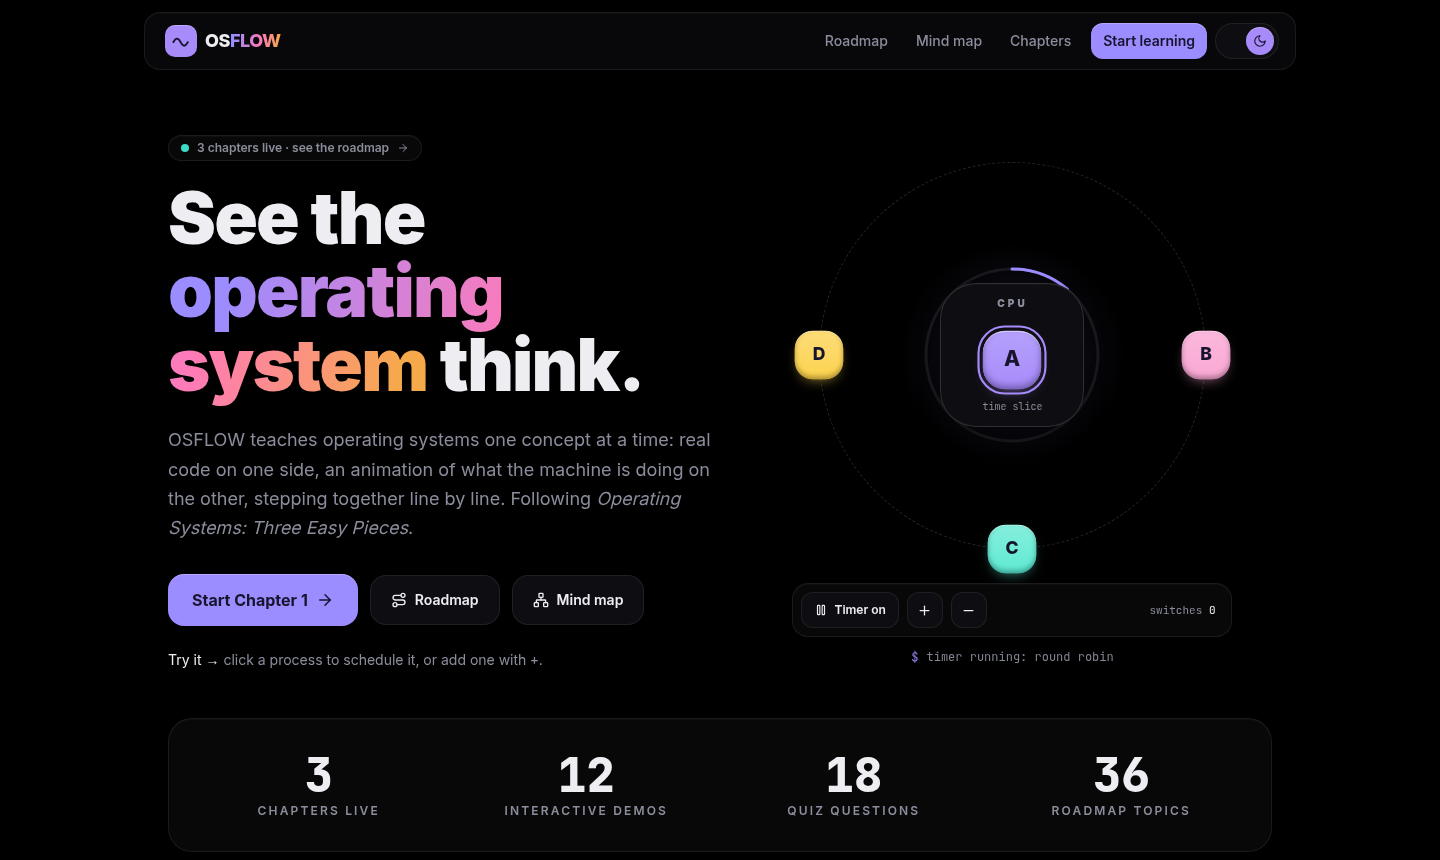
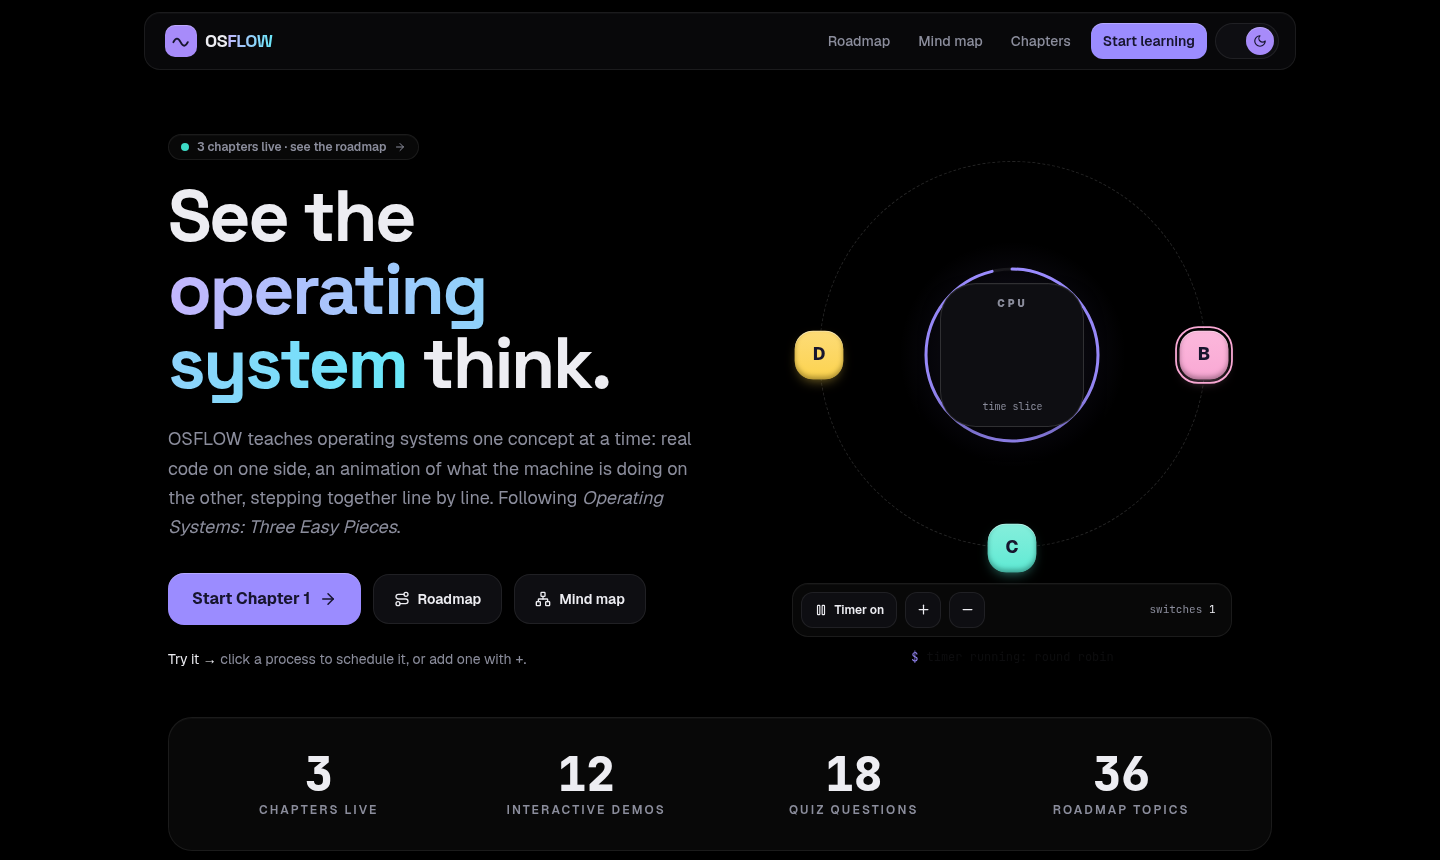
Typography and color refresh: Space Grotesk headings, Geist body, violet-to-cyan title gradient
- Headings and wordmark use Space Grotesk; body text uses Geist
- Calmer violet-to-cyan gradient for highlighted title words (deeper shades in light mode)
- OSFLOW wordmark: OS in ink, FLOW in the gradient
- Eyebrow labels use an accent color for clearer hierarchy
- README screenshot and GIFs re-recorded

diff --git a/app/page.tsx b/app/page.tsx
@@ -35,7 +35,7 @@ export default function Home() {
             </Link>
           </Reveal>
           <Reveal delay={0.05}>
-            <h1 className="mt-5 text-5xl font-black leading-[1.02] tracking-tight text-ink sm:text-7xl">
+            <h1 className="mt-5 text-5xl font-bold leading-[1.02] tracking-tight text-ink sm:text-7xl">
               See the <span className="text-gradient">operating system</span> think.
             </h1>
           </Reveal>
@@ -82,10 +82,10 @@ export default function Home() {
       {/* Three easy pieces */}
       <section aria-labelledby="pieces" className="py-16">
         <Reveal>
-          <p id="pieces" className="text-center text-sm font-bold uppercase tracking-[0.25em] text-muted">
+          <p id="pieces" className="text-center text-sm font-bold uppercase tracking-[0.25em] text-[var(--kicker)]">
             Three easy pieces
           </p>
-          <h2 className="mx-auto mt-3 max-w-2xl text-center text-3xl font-extrabold tracking-tight text-ink sm:text-4xl">Everything an OS does fits into three ideas</h2>
+          <h2 className="mx-auto mt-3 max-w-2xl text-center text-3xl font-bold tracking-tight text-ink sm:text-4xl">Everything an OS does fits into three ideas</h2>
         </Reveal>
         <Reveal delay={0.05}>
           <div className="mt-8">
@@ -97,7 +97,7 @@ export default function Home() {
       {/* How it works */}
       <section aria-labelledby="how" className="py-10">
         <Reveal>
-          <h2 id="how" className="text-3xl font-extrabold tracking-tight text-ink sm:text-4xl">
+          <h2 id="how" className="text-3xl font-bold tracking-tight text-ink sm:text-4xl">
             How every lesson works
           </h2>
         </Reveal>
@@ -122,7 +122,7 @@ export default function Home() {
       {/* Explore: roadmap + mind map */}
       <section aria-labelledby="explore" className="py-14">
         <Reveal>
-          <h2 id="explore" className="text-3xl font-extrabold tracking-tight text-ink sm:text-4xl">
+          <h2 id="explore" className="text-3xl font-bold tracking-tight text-ink sm:text-4xl">
             See the whole subject
           </h2>
           <p className="mt-2 max-w-2xl text-muted">Two maps of the same territory: one tells you what to learn next, the other shows how everything connects.</p>
@@ -134,7 +134,7 @@ export default function Home() {
                 <RoadmapPreview />
                 <div className="mt-5 flex items-center justify-between">
                   <div>
-                    <h3 className="text-xl font-extrabold text-ink">Learning roadmap</h3>
+                    <h3 className="text-xl font-bold text-ink">Learning roadmap</h3>
                     <p className="text-sm text-muted">
                       {ALL_TOPICS.length} topics in {STAGES.length} stages, in the order to learn them.
                     </p>
@@ -150,7 +150,7 @@ export default function Home() {
                 <MindmapPreview />
                 <div className="mt-5 flex items-center justify-between">
                   <div>
-                    <h3 className="text-xl font-extrabold text-ink">Concept mind map</h3>
+                    <h3 className="text-xl font-bold text-ink">Concept mind map</h3>
                     <p className="text-sm text-muted">{concepts} concepts around six big ideas, each linked to its lesson.</p>
                   </div>
                   <ArrowRight className="shrink-0 text-muted" />
@@ -164,7 +164,7 @@ export default function Home() {
       {/* Learning path */}
       <section id="path" aria-labelledby="path-h" className="scroll-mt-24 py-14">
         <Reveal>
-          <h2 id="path-h" className="text-3xl font-extrabold tracking-tight text-ink sm:text-4xl">
+          <h2 id="path-h" className="text-3xl font-bold tracking-tight text-ink sm:text-4xl">
             The learning path
           </h2>
           <p className="mt-2 max-w-2xl text-muted">
@@ -181,7 +181,7 @@ export default function Home() {
               <Reveal>
                 <div className="mb-4 flex items-center gap-3">
                   <span className="h-3 w-3 rounded-full" style={{ background: part.color }} aria-hidden />
-                  <h3 className="text-xl font-extrabold text-ink">{part.title}</h3>
+                  <h3 className="text-xl font-bold text-ink">{part.title}</h3>
                   <span className="hidden text-sm text-muted sm:inline">· {part.blurb}</span>
                 </div>
               </Reveal>

diff --git a/app/layout.tsx b/app/layout.tsx
@@ -1,10 +1,11 @@
 import type { Metadata, Viewport } from "next";
-import { Inter, JetBrains_Mono } from "next/font/google";
+import { Geist, JetBrains_Mono, Space_Grotesk } from "next/font/google";
 import "./globals.css";
 import { Nav } from "@/components/ui/Nav";
 import { Providers } from "@/components/ui/Providers";
 
-const inter = Inter({ subsets: ["latin"], variable: "--font-inter", display: "swap" });
+const sans = Geist({ subsets: ["latin"], variable: "--font-geist", display: "swap" });
+const display = Space_Grotesk({ subsets: ["latin"], variable: "--font-grotesk", weight: ["500", "600", "700"], display: "swap" });
 const mono = JetBrains_Mono({ subsets: ["latin"], variable: "--font-jetbrains", display: "swap" });
 
 export const metadata: Metadata = {
@@ -25,7 +26,7 @@ const themeScript = `try{var t=localStorage.getItem('osflow-theme');document.doc
 
 export default function RootLayout({ children }: { children: React.ReactNode }) {
   return (
-    <html lang="en" className={`dark ${inter.variable} ${mono.variable}`} suppressHydrationWarning>
+    <html lang="en" className={`dark ${sans.variable} ${display.variable} ${mono.variable}`} suppressHydrationWarning>
       <head>
         <script dangerouslySetInnerHTML={{ __html: themeScript }} />
       </head>
@@ -44,7 +45,7 @@ export default function RootLayout({ children }: { children: React.ReactNode }) 
           <footer className="relative mx-auto mt-24 max-w-6xl px-4 pb-12 text-sm text-muted sm:px-6">
             <div className="glass flex flex-col gap-2 rounded-3xl px-6 py-5 sm:flex-row sm:items-center sm:justify-between">
               <p>
-                <span className="font-semibold text-ink">OSFLOW</span> · learn operating systems by watching them work.
+                <span className="font-display font-bold tracking-tight text-ink">OS<span className="text-gradient">FLOW</span></span> · learn operating systems by watching them work.
               </p>
               <p>
                 Chapter order and example programs follow{" "}

diff --git a/app/roadmap/page.tsx b/app/roadmap/page.tsx
@@ -17,8 +17,8 @@ export default function RoadmapPage() {
     <div className="mx-auto max-w-6xl px-4 sm:px-6">
       <header className="pb-4 pt-12 sm:pt-16">
         <Reveal>
-          <p className="font-mono text-xs font-bold uppercase tracking-[0.25em] text-muted">Learning roadmap</p>
-          <h1 className="mt-3 max-w-3xl text-4xl font-black leading-[1.05] tracking-tight text-ink sm:text-6xl">
+          <p className="font-mono text-xs font-bold uppercase tracking-[0.25em] text-[var(--kicker)]">Learning roadmap</p>
+          <h1 className="mt-3 max-w-3xl text-4xl font-bold leading-[1.05] tracking-tight text-ink sm:text-6xl">
             The road to <span className="text-gradient">understanding an OS</span>
           </h1>
           <p className="mt-4 max-w-2xl text-lg leading-relaxed text-muted">
@@ -47,7 +47,7 @@ export default function RoadmapPage() {
       {/* Explanation of the whole map */}
       <section aria-labelledby="reading" className="mt-16">
         <Reveal>
-          <h2 id="reading" className="text-3xl font-extrabold tracking-tight text-ink sm:text-4xl">
+          <h2 id="reading" className="text-3xl font-bold tracking-tight text-ink sm:text-4xl">
             Reading the map
           </h2>
           <div className="prose-os mt-4">
@@ -72,7 +72,7 @@ export default function RoadmapPage() {
                   <span className="tint grid h-10 w-10 place-items-center rounded-xl font-mono text-sm font-black" style={{ ["--c" as string]: s.color }}>
                     {i + 1}
                   </span>
-                  <h3 className="text-xl font-extrabold text-ink">{s.title}</h3>
+                  <h3 className="text-xl font-bold text-ink">{s.title}</h3>
                 </div>
                 <div className="mt-3 space-y-3 text-[15px] leading-relaxed text-muted">
                   {s.explain.map((p, k) => (

diff --git a/app/globals.css b/app/globals.css
@@ -3,7 +3,8 @@
 @custom-variant dark (&:where(.dark, .dark *));
 
 @theme {
-  --font-sans: var(--font-inter), ui-sans-serif, system-ui, sans-serif;
+  --font-sans: var(--font-geist), ui-sans-serif, system-ui, sans-serif;
+  --font-display: var(--font-grotesk), var(--font-geist), ui-sans-serif, system-ui, sans-serif;
   --font-mono: var(--font-jetbrains), ui-monospace, SFMono-Regular, monospace;
 
   --color-ink: var(--ink);
@@ -25,6 +26,11 @@
   --danger: #e5484d;
   --success: #12a594;
   --surface: #ffffff;
+
+  /* headline colors: calm violet → cyan, deep enough for white backgrounds */
+  --title-from: #6d28d9;
+  --title-to: #0e7490;
+  --kicker: #6d28d9;
 
   /* surfaces */
   --panel: #ffffff;
@@ -64,6 +70,10 @@
   --success: #3ddbc6;
   --surface: #0b0b0e;
 
+  --title-from: #c4b5fd;
+  --title-to: #67e8f9;
+  --kicker: #a5b4fc;
+
   --panel: #0e0e12;
   --well: #070709;
   --line: rgba(255, 255, 255, 0.08);
@@ -94,6 +104,19 @@ body {
   color: var(--ink);
   min-height: 100dvh;
   -webkit-font-smoothing: antialiased;
+}
+
+/* Headings use the display face with tighter tracking. */
+h1,
+h2,
+h3,
+h4,
+.font-display {
+  font-family: var(--font-display);
+  letter-spacing: -0.025em;
+}
+h1 {
+  letter-spacing: -0.035em;
 }
 
 ::selection {
@@ -169,7 +192,7 @@ body {
   }
 
   .text-gradient {
-    background: linear-gradient(100deg, var(--accent) 10%, var(--accent-2) 60%, #f6a94b 95%);
+    background: linear-gradient(95deg, var(--title-from) 0%, var(--title-to) 100%);
     -webkit-background-clip: text;
     background-clip: text;
     color: transparent;

diff --git a/app/mindmap/page.tsx b/app/mindmap/page.tsx
@@ -17,8 +17,8 @@ export default function MindmapPage() {
     <div className="mx-auto max-w-[1400px] px-4 sm:px-6">
       <header className="pb-8 pt-12 sm:pt-16">
         <Reveal>
-          <p className="font-mono text-xs font-bold uppercase tracking-[0.25em] text-muted">Mind map</p>
-          <h1 className="mt-3 max-w-3xl text-4xl font-black leading-[1.05] tracking-tight text-ink sm:text-6xl">
+          <p className="font-mono text-xs font-bold uppercase tracking-[0.25em] text-[var(--kicker)]">Mind map</p>
+          <h1 className="mt-3 max-w-3xl text-4xl font-bold leading-[1.05] tracking-tight text-ink sm:text-6xl">
             Every idea, <span className="text-gradient">connected</span>
           </h1>
           <p className="mt-4 max-w-2xl text-lg leading-relaxed text-muted">
@@ -35,7 +35,7 @@ export default function MindmapPage() {
 
       {/* Accessible / mobile-friendly outline of the same map */}
       <section aria-labelledby="outline" className="mt-14">
-        <h2 id="outline" className="text-2xl font-extrabold tracking-tight text-ink">
+        <h2 id="outline" className="text-2xl font-bold tracking-tight text-ink">
           Outline view
         </h2>
         <p className="mt-1 text-sm text-muted">The same map as a list.</p>

diff --git a/components/roadmap/RoadmapMap.tsx b/components/roadmap/RoadmapMap.tsx
@@ -217,7 +217,7 @@ function StageDetails({ id, onSelect }: { id: string; onSelect: (s: Sel) => void
   return (
     <div className="pr-8">
       <p className="font-mono text-[10px] font-bold uppercase tracking-[0.2em] text-muted">Stage {STAGES.indexOf(stage) + 1}</p>
-      <h3 className="mt-1 text-xl font-extrabold text-ink">{stage.title}</h3>
+      <h3 className="mt-1 text-xl font-bold text-ink">{stage.title}</h3>
       {stage.explain.map((p, i) => (
         <p key={i} className="mt-3 text-sm leading-relaxed text-muted">
           {p}
@@ -255,7 +255,7 @@ function TopicDetails({ id, onSelect, done }: { id: string; onSelect: (s: Sel) =
         <span className="neu rounded-full px-2 py-0.5 text-[10px] font-bold uppercase text-muted">{STATUS_LABEL[status]}</span>
         {t.kind === "optional" && <span className="neu rounded-full px-2 py-0.5 text-[10px] font-bold uppercase text-muted">optional</span>}
       </div>
-      <h3 className="mt-3 text-xl font-extrabold text-ink">
+      <h3 className="mt-3 text-xl font-bold text-ink">
         <span className="mr-2 font-mono text-sm text-muted">{TOPIC_ORDER[t.id]}.</span>
         {t.title}
       </h3>

diff --git a/components/chapter/ChapterToc.tsx b/components/chapter/ChapterToc.tsx
@@ -25,7 +25,7 @@ export function ChapterToc({ sections }: { sections: Section[] }) {
 
   return (
     <>
-      <motion.div aria-hidden className="fixed inset-x-0 top-0 z-50 h-1 origin-left" style={{ scaleX: progress, background: "linear-gradient(90deg, var(--accent), var(--accent-2))" }} />
+      <motion.div aria-hidden className="fixed inset-x-0 top-0 z-50 h-1 origin-left" style={{ scaleX: progress, background: "linear-gradient(90deg, var(--title-from), var(--title-to))" }} />
       <nav aria-label="Sections in this chapter" className="glass sticky top-24 hidden rounded-3xl p-3 lg:block">
         <p className="px-2 pb-2 text-[10px] font-bold uppercase tracking-[0.2em] text-muted">In this chapter</p>
         <ol className="space-y-0.5">

diff --git a/components/chapter/Section.tsx b/components/chapter/Section.tsx
@@ -10,8 +10,8 @@ export function Section({ id, n, title, kicker, children }: { id: string; n: str
             {n}
           </span>
           <div>
-            {kicker && <p className="text-xs font-bold uppercase tracking-[0.2em] text-muted">{kicker}</p>}
-            <h2 className="text-2xl font-extrabold tracking-tight text-ink sm:text-3xl">{title}</h2>
+            {kicker && <p className="text-xs font-bold uppercase tracking-[0.2em] text-[var(--kicker)]">{kicker}</p>}
+            <h2 className="text-2xl font-bold tracking-tight text-ink sm:text-3xl">{title}</h2>
           </div>
         </div>
       </Reveal>

diff --git a/components/ui/Nav.tsx b/components/ui/Nav.tsx
@@ -10,7 +10,7 @@ export function Nav() {
       <nav className="glass-strong mx-auto flex max-w-6xl items-center justify-between gap-2 rounded-2xl px-2 py-2 sm:px-4" aria-label="Main">
         <Link href="/" className="focus-ring flex shrink-0 items-center gap-2 rounded-xl px-1 py-1">
           <Logo className="h-8 w-8" />
-          <span className="hidden text-lg font-extrabold tracking-tight min-[400px]:inline">
+          <span className="font-display hidden text-lg font-bold tracking-tight min-[400px]:inline">
             OS<span className="text-gradient">FLOW</span>
           </span>
         </Link>

diff --git a/app/not-found.tsx b/app/not-found.tsx
@@ -6,7 +6,7 @@ export default function NotFound() {
       <span className="tint mb-6 grid h-20 w-20 place-items-center rounded-3xl font-mono text-xl font-black" style={{ ["--c" as string]: "var(--p1)" }}>
         404
       </span>
-      <h1 className="text-3xl font-extrabold text-ink">Segmentation fault</h1>
+      <h1 className="text-3xl font-bold text-ink">Segmentation fault</h1>
       <p className="mt-2 text-muted">That page isn&apos;t mapped in this address space.</p>
       <Link href="/" className="neu focus-ring mt-6 rounded-2xl px-5 py-3 text-sm font-semibold text-ink">
         Back home

diff --git a/app/learn/[chapter]/page.tsx b/app/learn/[chapter]/page.tsx
@@ -56,7 +56,7 @@ export default async function ChapterPage({ params }: Props) {
             </span>
           )}
         </div>
-        <h1 className="mt-4 max-w-3xl text-4xl font-black leading-[1.05] tracking-tight text-ink sm:text-6xl">
+        <h1 className="mt-4 max-w-3xl text-4xl font-bold leading-[1.05] tracking-tight text-ink sm:text-6xl">
           {ch.title.split(" ").slice(0, -2).join(" ")} <span className="text-gradient">{ch.title.split(" ").slice(-2).join(" ")}</span>
         </h1>
         <p className="mt-4 max-w-2xl text-lg leading-relaxed text-muted">{ch.summary}</p>

diff --git a/components/home/PiecesTabs.tsx b/components/home/PiecesTabs.tsx
@@ -92,7 +92,7 @@ export function PiecesTabs() {
             <p.Mini />
           </div>
           <div className="glass flex flex-col rounded-3xl p-6">
-            <h3 className="text-2xl font-extrabold text-ink">{p.lead}</h3>
+            <h3 className="text-2xl font-bold text-ink">{p.lead}</h3>
             <p className="mt-3 leading-relaxed text-muted">{p.body}</p>
             <p className="mt-5 text-[10px] font-bold uppercase tracking-[0.18em] text-muted">Topics in this piece</p>
             <div className="mt-2 flex flex-wrap gap-1.5">
